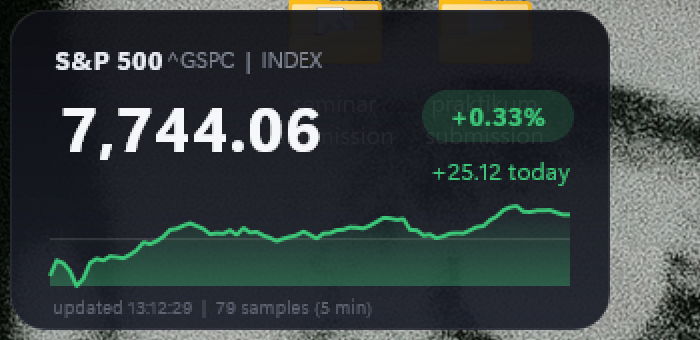
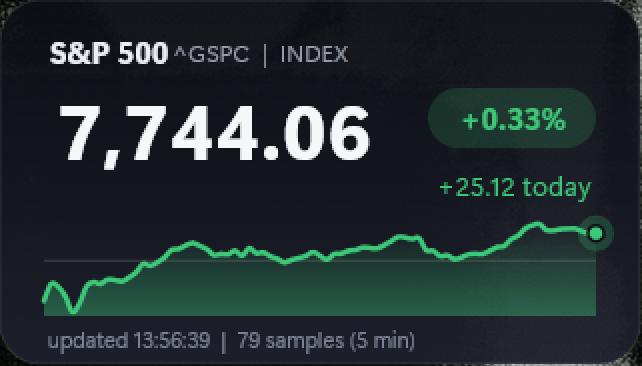
Sharper modern card: larger type, smooth spline chart, live dot, real 2x screenshot

diff --git a/README.md b/README.md
@@ -66,8 +66,9 @@ The chart is drawn with Rainmeter's vector `Shape` meter, not a bitmap, which is
 
 1. **Scale.** `lo` and `hi` are the min and max of all samples, **and the previous close is included in that range**, so the reference line is always inside the chart.
 2. **Normalize.** Each sample `v` is mapped to a pixel height: `y = top + h - (v - lo) / (hi - lo) * h`. The x position is spread evenly: `x = x0 + i / (n - 1) * w`. If all values are identical, the span falls back to 1 to avoid dividing by zero.
-3. **Build three paths** as strings and push them to the skin with `!SetOption`:
-   - `LinePath` is the polyline of all points, drawn with a 2 px stroke and round line joins.
+3. **Smooth.** A straight polyline of 5-minute samples looks jagged, so the points are joined with a Catmull-Rom spline converted to cubic Bezier segments: for each point the control handles are `P1 + (P2 - P0) / 6` and `P2 - (P3 - P1) / 6` (end points are clamped). The curve passes through every sample but has no sharp corners.
+4. **Build the paths** as strings and push them to the skin with `!SetOption`:
+   - `LinePath` is a smooth curve through all points (see below), drawn with a 2.5 px stroke and round caps and joins.
    - `AreaPath` is the same polyline closed down to the baseline, filled with a vertical `LinearGradient` that fades from the trend color at 35% opacity to fully transparent.
    - `RefPath` is a faint horizontal line at the previous-close height, so you can see at a glance whether you are above or below yesterday.
 
@@ -94,3 +95,10 @@ Replace `%5EGSPC` in the URL with another Yahoo ticker (`%5EIXIC` for NASDAQ, `%
 ## License
 
 MIT, see [LICENSE](LICENSE).
+
+## Getting the sharpest rendering
+
+- Rainmeter draws the skin at your display scaling (for example 200% on a high-DPI laptop), so shapes stay vector-sharp.
+- Turn on **Hardware acceleration** in Rainmeter (tray icon > Settings > Advanced, or `HardwareAcceleration=1` in `Rainmeter.ini`) so Direct2D renders on the GPU.
+- Text on a translucent desktop window is drawn with grayscale anti-aliasing, because Windows disables ClearType on per-pixel-alpha windows. That is a Windows limit, so the widget uses larger sizes and bold weights to stay readable.
+- The integrated GPU is the right choice. The card is tiny, so a discrete GPU adds power draw and gives no visible gain.
